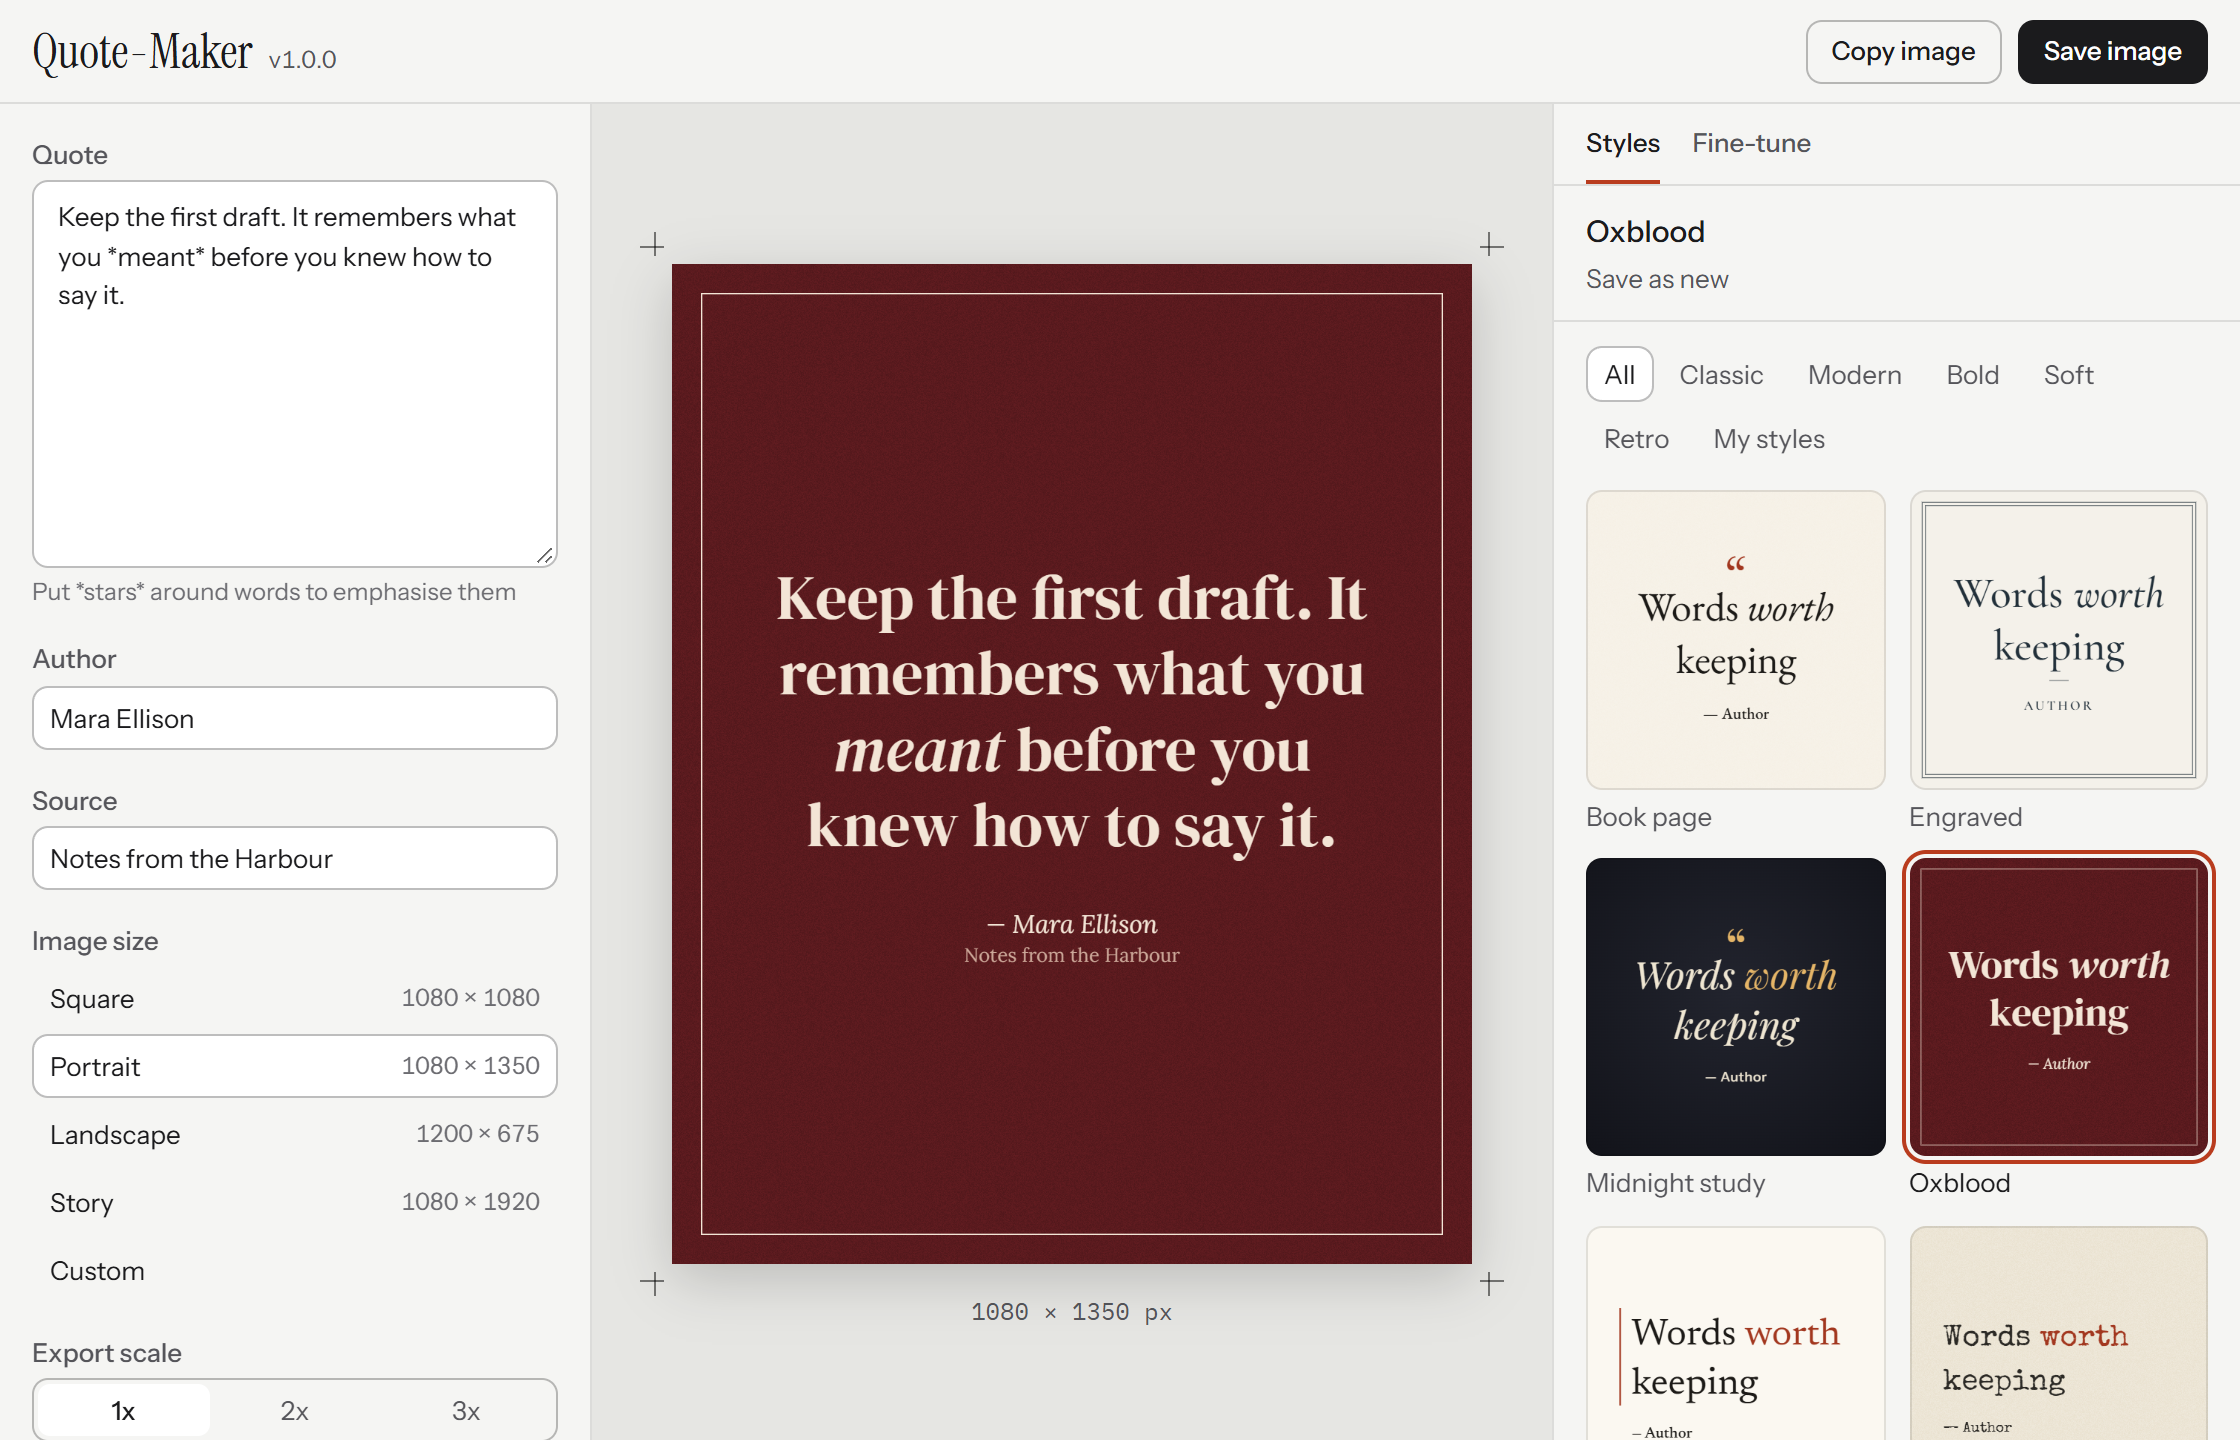
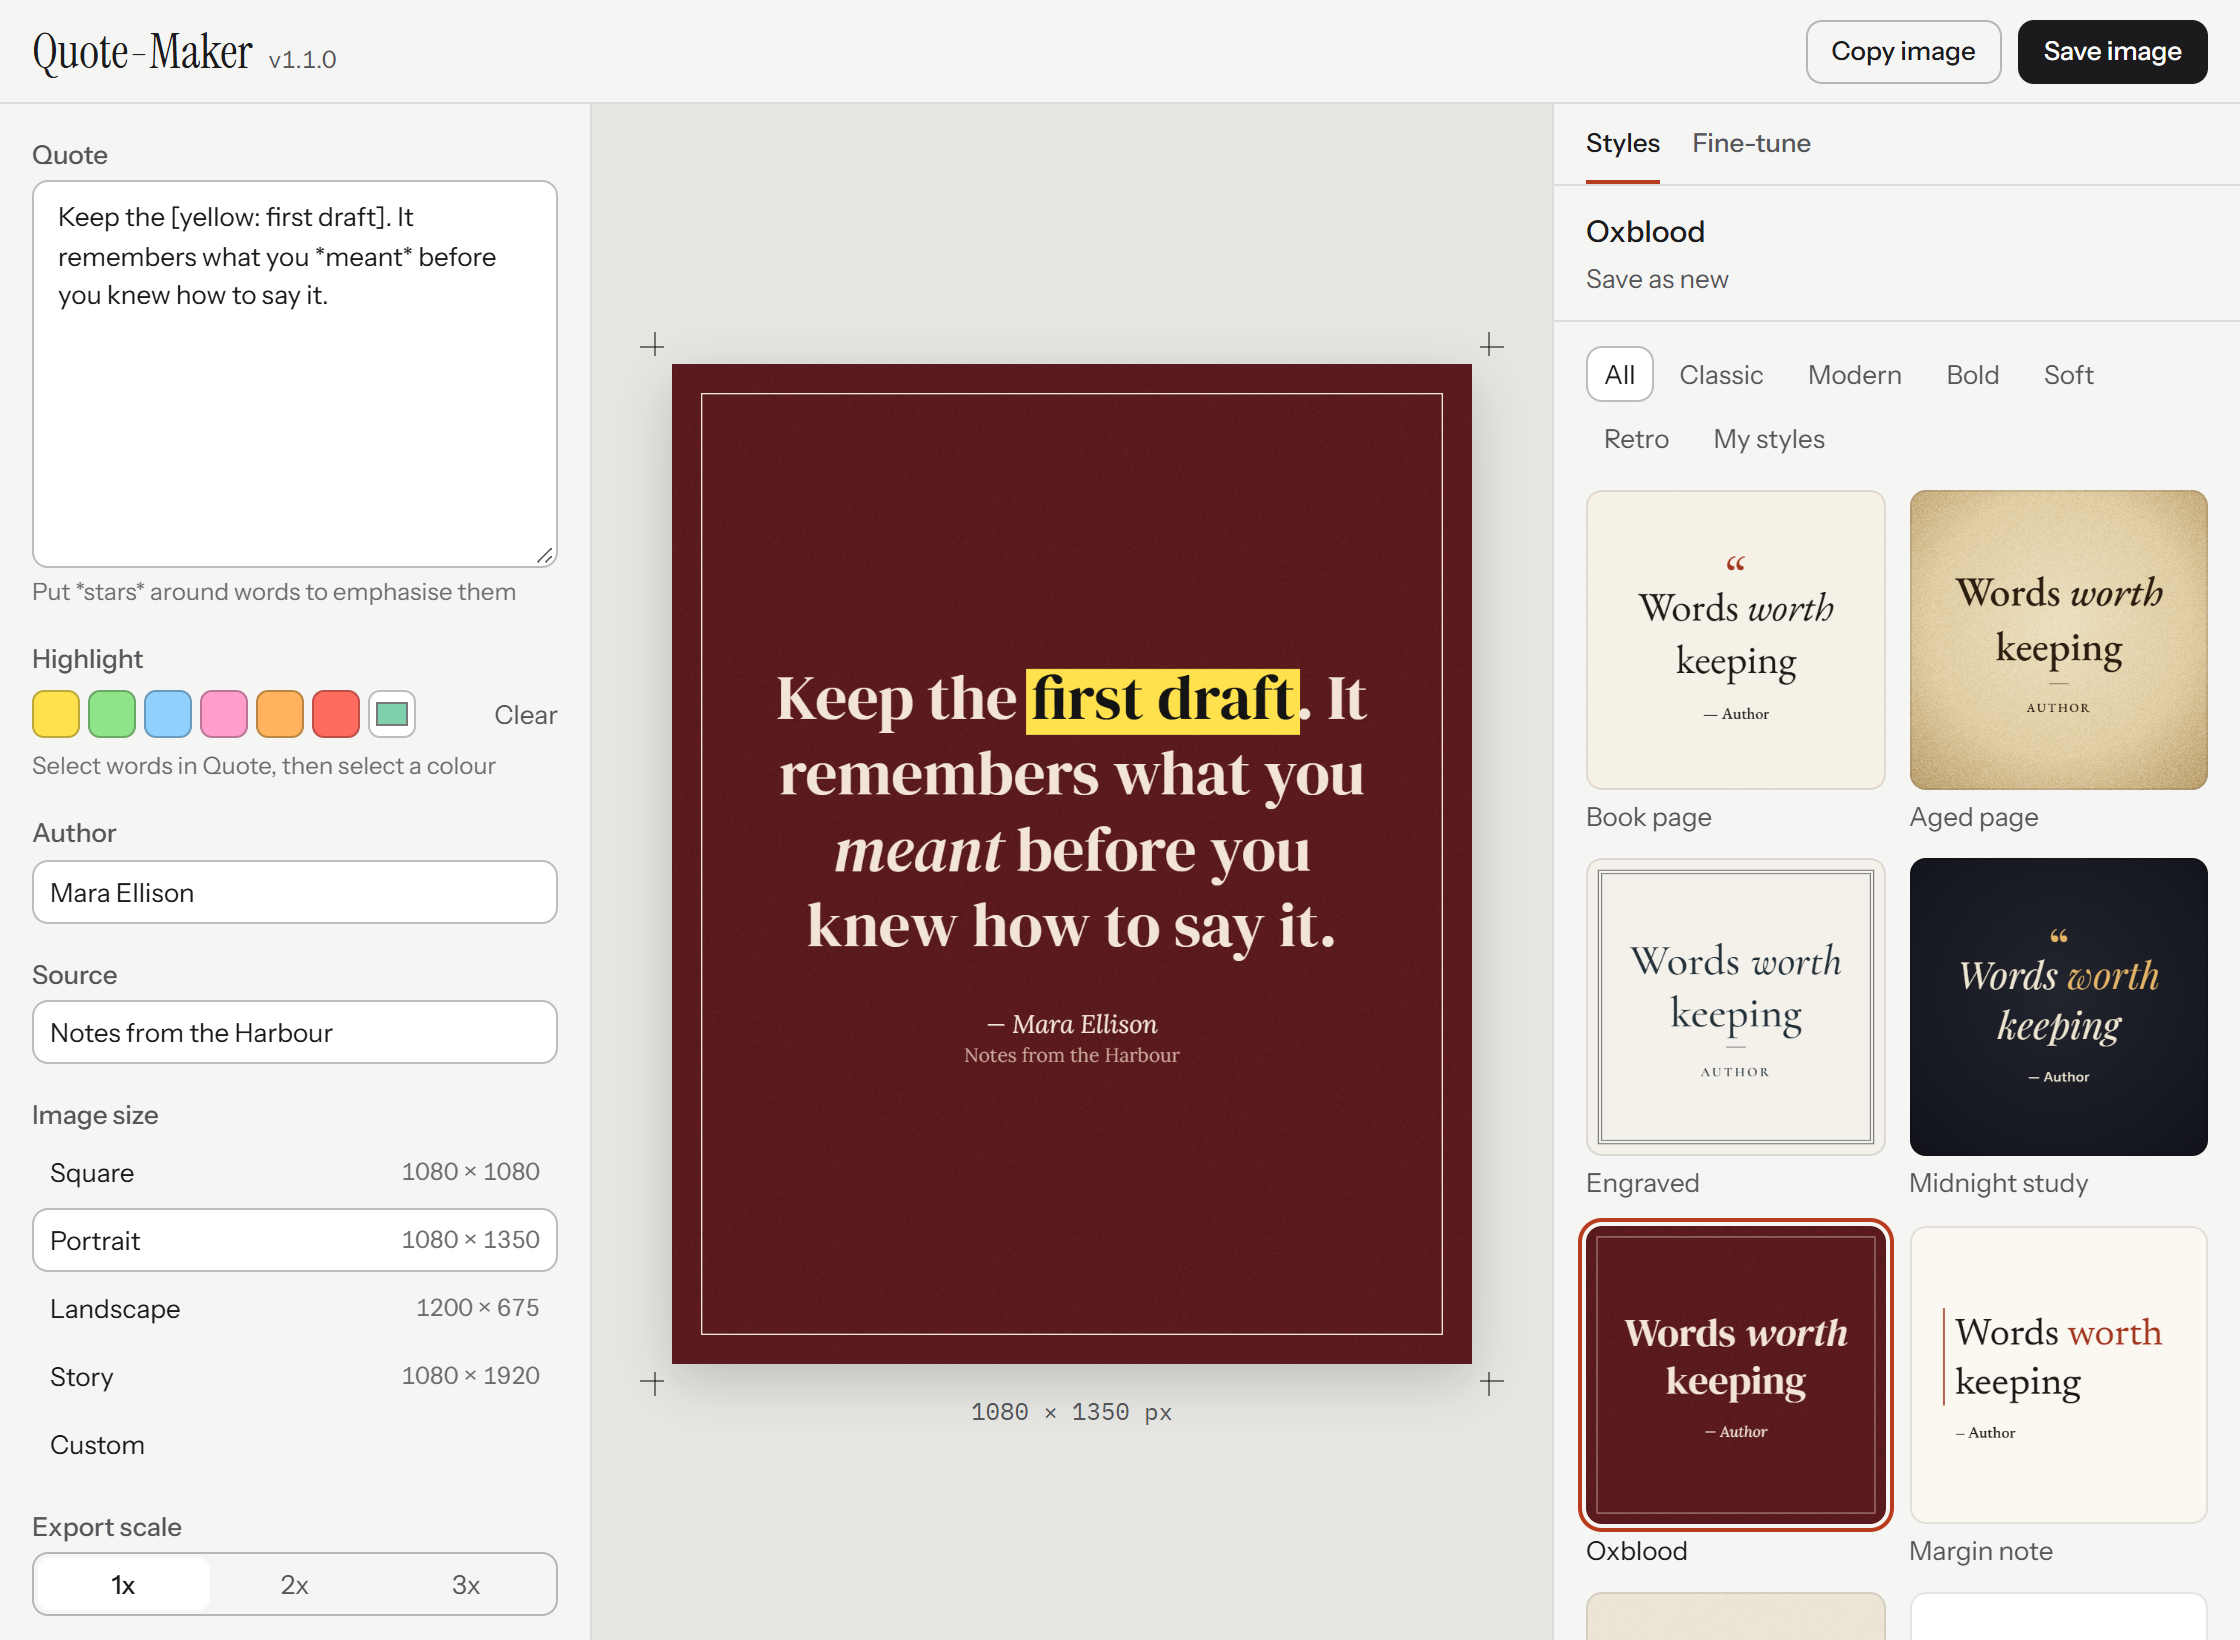
Refresh README screenshots
Increase screenshot height, highlight sample quote text, and reset the style pane scroll before capture.

diff --git a/assets/make_screenshots.py b/assets/make_screenshots.py
@@ -1,6 +1,6 @@
 """Retakes the README screenshots from the real interface, in light and dark, with made-up data.
 
-Writes assets/screenshots/<view>-light.png and <view>-dark.png at 1120 x 720 px, saved at 2x.
+Writes assets/screenshots/<view>-light.png and <view>-dark.png at 1120 x 820 px, saved at 2x.
 It captures only the page, in a clean browser profile, so no real settings or files can appear.
 The page's network requests are blocked, except to the local server.
 The version label shows the newest vX.Y.Z git tag. The script fetches tags from the repository's
@@ -23,7 +23,7 @@ ASSETS = Path(__file__).parent
 ROOT = ASSETS.parent
 WEB_DIR = ROOT / "quote_maker" / "web"
 OUT_DIR = ASSETS / "screenshots"
-WIDTH, HEIGHT, SCALE = 1120, 720, 2
+WIDTH, HEIGHT, SCALE = 1120, 820, 2
 FETCH_TIMEOUT_SECONDS = 20
 
 
@@ -127,7 +127,7 @@ window.pywebview = { api: {
 VIEWS = [
     {
         "file": "editor",
-        "quote": "Keep the first draft. It remembers what you *meant* before you knew how to say it.",
+        "quote": "Keep the [yellow: first draft]. It remembers what you *meant* before you knew how to say it.",
         "author": "Mara Ellison",
         "source": "Notes from the Harbour",
         "size": "Portrait",
@@ -202,6 +202,8 @@ def capture(browser, url, scheme):
         if "filter" in view:
             page.locator(".filter", has_text=view["filter"]).click()
         page.click(f"#{view['tab']}")
+        # Clicking a style can scroll the gallery, which would hide the filters.
+        page.evaluate("document.getElementById('pane-styles').scrollTop = 0")
         # Wait for fonts and every visible thumbnail, then for the preview to redraw.
         wait_until(page, "document.fonts.status === 'loaded'")
         wait_until(

diff --git a/README.md b/README.md
@@ -6,7 +6,7 @@ Try the working demo on the [Quote-Maker website](https://tariqmk.github.io/Quot
 
 <picture>
   <source media="(prefers-color-scheme: dark)" srcset="assets/screenshots/editor-dark.png">
-  <img src="assets/screenshots/editor-light.png" alt="Quote-Maker with a quote in the Oxblood style: the text fields on the left, the image preview in the centre and the style gallery on the right" width="840">
+  <img src="assets/screenshots/editor-light.png" alt="Quote-Maker with a quote in the Oxblood style, with two words highlighted in yellow: the text fields on the left, the image preview in the centre and the style gallery on the right" width="840">
 </picture>
 
 ## Features
